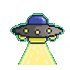
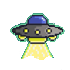
added two new ships

Changed region(s): [[0.2571, 0.8, 0.8286, 0.9429]]

diff --git a/client/images/playerAssets/index.js b/client/images/playerAssets/index.js
@@ -3,6 +3,7 @@ import ship2 from './ship2.png';
 import ship3 from './newshipsmall.png';
 import ship4 from './ship4.png';
 import ship5 from './ship5.png';
+import ship6 from './ship6.png';
 
 
-export default [ship, ship2, ship3, ship4, ship5];
+export default [ship, ship2, ship3, ship4, ship5, ship6];
